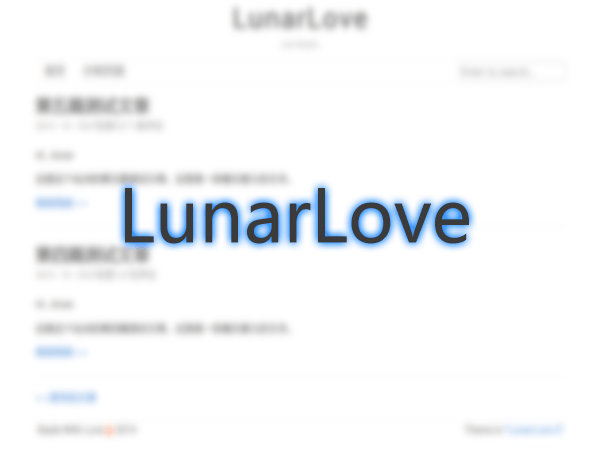
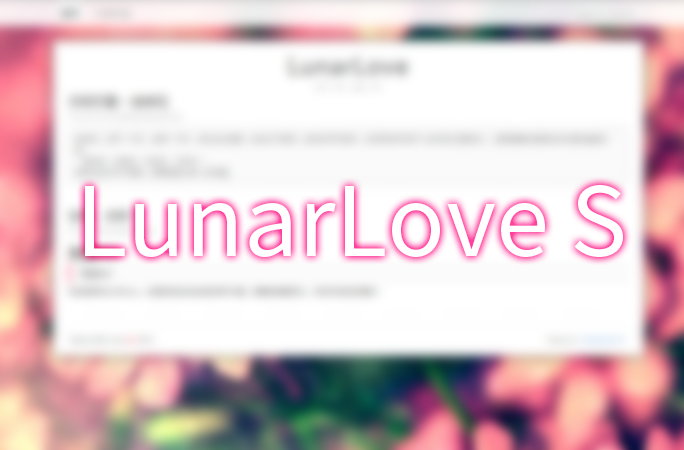
ReBuild-Milestone1
2.00 Rebuild M1

diff --git a/style.css b/style.css
@@ -106,7 +106,8 @@ a img {
     padding-bottom: 10px;
     padding-right: 30px;
     box-shadow: 0px 0px 30px #5c5c5c;
-    width:1200px;
+    max-width:1100px;
+    min-width: 900px;
     margin:0 auto;
     margin-top:30px;
     margin-bottom:30px;
@@ -153,7 +154,6 @@ p {
 li > ul,
 li > ol {
 	margin-bottom: 0;
-	margin-left: 2em;
 }
 dt {
 	font-weight: bold;
@@ -232,7 +232,7 @@ select,
 textarea {
 	font-size: 100%; /* Corrects font size not being inherited in all browsers */
 	margin: 0; /* Addresses margins set differently in IE6/7, F3/4, S5, Chrome */
-	vertical-align: baseline; /* Improves appearance and consistency in all browsers */
+	vertical-align: middle; /* Improves appearance and consistency in all browsers */
 	*vertical-align: middle; /* Improves appearance and consistency in all browsers */
 }
 button,
@@ -446,7 +446,8 @@ a:active {
 .nav-con {
     margin-left: auto;
     margin-right: auto;
-    width: 1260px;
+    max-width: 1160px;
+    min-width: 860px;
     height: 50px;
 }
 /* =Content
@@ -547,8 +548,8 @@ object {
 ----------------------------------------------- */
 
 .site-main [class*="navigation"] {
+    overflow: hidden;
 	margin: 0 0 1.5em;
-	overflow: hidden;
 }
 [class*="navigation"] .nav-previous {
 	float: left;
@@ -623,7 +624,6 @@ object {
 }
 .site-description {
     text-align:center;
-    font-style:italic;
     font-size:12px;
     color:#B8B8B8;
 }
@@ -642,7 +642,7 @@ object {
     -webkit-transition: background 200ms ease-in-out;
 }
 .main-navigation a {
-    color:#333333;
+    color:#949494;
     padding-left:5px;
     padding-right:5px;
 }
@@ -652,22 +652,27 @@ object {
 .menu-search {
     float:right;
     background-color: rgba(255,255,255,0.5);
-    border:1px solid #CCCCC !important;
+    border:1px solid #E0E0E0 !important;
     width: 130px;
-    height:24x;
+    /*height:24px;*/
     margin-top:10px;
-    transition: width 0.3s ease-in;
+    transition: width 0.3s ease-in,background 0.3s ease-in;
 }
 .menu-search:hover {
+    background-color: rgba(255,255,255,0.8);
     width: 185px;
 }
 .menu-search:focus {
     width: 185px;
 }
+.current_page_item a {
+    background-color: #FFFFFF;
+    color: #000000 !important;
+}
 /* =Main Artical
 ----------------------------------------------- */
 .entry-title {
-    font-size:28px;
+    font-size:24px;
 }
 .entry-title a {
     color:#505050;
@@ -681,20 +686,35 @@ object {
     font-size:14px;
 }
 .entry-header span a {
-    color:#B1B1B1;
+    color:#BFBFBF;
 }
 .comments-link a {
-    color:#B1B1B1;
+    color:#BFBFBF;
 }
 .entry-content p,.page-content p {
+    font-size: 15px;
     color:#404040;
 }
 .entry-content {
     border-bottom:1px dashed #EEE;
     padding-bottom:20px;
 }
+.entry-content h1 {
+    font-size: 28px;
+}
+.entry-content h2 {
+    font-size: 18px;
+    background-color: #FBFBFB;
+    padding:10px 20px 9px 20px;
+    line-height: 18px;
+    border-left: 3px solid #FF3366;
+    border-bottom: 1px solid #EBEBEB;
+    border-top: 1px solid #EBEBEB;
+    border-right: 1px solid #EBEBEB;
+}
 .entry-meta span {
     color:#B1B1B1;
+    font-size: 14px;
 }
 .page-title {
     font-size:28px;
@@ -741,12 +761,13 @@ blockquote p {
     color:#FF3366 !important;
 }
 .site-info {
+    margin-top: 15px;
     font-size: 14px;
 }
 /* =Comment
 ----------------------------------------------- */
-.comments-title {
-    font-size:20px;
+.comments-area {
+    font-size: 14px;
 }
 .comment-list {
     margin-top:20px;
@@ -760,18 +781,14 @@ blockquote p {
     padding-top:15px;
     padding-left:15px;
     padding-right:10px;
-    padding-bottom:1px;
 }
 .comment-content {
-    margin-top:10px;
+    word-break: break-all;
     display:flex;
 }
 .comment-time {
     font-size:14px;
     color:#404040;
-}
-.comment-metadata edit-link {
-    font-size:14px;
 }
 .avatar {
     border:1px solid #CCCCCC;
@@ -780,8 +797,8 @@ blockquote p {
     display:inline-block;
 }
 .comment-reply-title {
+    font-size: 18px;
     color:#000000;
-    font-size:20px;
     margin-top:30px;
 }
 .comment-form input{
@@ -829,9 +846,20 @@ input[type=text]:focus,textarea:focus {
 
 .action {
     float:right;
+    margin-top: -15px;
+    margin-bottom: 5px;
     display:inline-flex;
 }
-.parent {
+.depth-1 {
     margin-top: 10px;
     border-top: 1px dotted #D9D9D9;
+}
+.depth-2 {
+    margin-left: 28px;
+}
+.depth-3 {
+    margin-left: 28px;
+}
+.comments-title {
+    font-size: 16px;
 }

diff --git a/comments.php b/comments.php
@@ -33,9 +33,8 @@ if ( post_password_required() )
 
 		<?php if ( get_comment_pages_count() > 1 && get_option( 'page_comments' ) ) : // are there comments to navigate through ?>
 		<nav id="comment-nav-above" class="comment-navigation" role="navigation">
-			<h1 class="screen-reader-text"><?php _e( 'Comment navigation', 'lunarlove' ); ?></h1>
-			<div class="nav-previous"><?php previous_comments_link( __( '&larr; Older Comments', 'lunarlove' ) ); ?></div>
-			<div class="nav-next"><?php next_comments_link( __( 'Newer Comments &rarr;', 'lunarlove' ) ); ?></div>
+			<div class="nav-previous"><?php previous_comments_link( __( '&larr; 之前的评论', 'lunarlove' ) ); ?></div>
+			<div class="nav-next"><?php next_comments_link( __( '之后的评论 &rarr;', 'lunarlove' ) ); ?></div>
 		</nav><!-- #comment-nav-above -->
 		<?php endif; // check for comment navigation ?>
 
@@ -53,9 +52,8 @@ if ( post_password_required() )
 
 		<?php if ( get_comment_pages_count() > 1 && get_option( 'page_comments' ) ) : // are there comments to navigate through ?>
 		<nav id="comment-nav-below" class="comment-navigation" role="navigation">
-			<h1 class="screen-reader-text"><?php _e( 'Comment navigation', 'lunarlove' ); ?></h1>
-			<div class="nav-previous"><?php previous_comments_link( __( '&larr; Older Comments', 'lunarlove' ) ); ?></div>
-			<div class="nav-next"><?php next_comments_link( __( 'Newer Comments &rarr;', 'lunarlove' ) ); ?></div>
+			<div class="nav-previous"><?php previous_comments_link( __( '&larr; 之前的评论', 'lunarlove' ) ); ?></div>
+			<div class="nav-next"><?php next_comments_link( __( '之后的评论 &rarr;', 'lunarlove' ) ); ?></div>
 		</nav><!-- #comment-nav-below -->
 		<?php endif; // check for comment navigation ?>
 

diff --git a/inc/template-tags.php b/inc/template-tags.php
@@ -41,11 +41,11 @@ function lunarlove_content_nav( $nav_id ) {
 	<?php elseif ( $wp_query->max_num_pages > 1 && ( is_home() || is_archive() || is_search() ) ) : // navigation links for home, archive, and search pages ?>
 
 		<?php if ( get_next_posts_link() ) : ?>
-		<div class="nav-previous"><?php next_posts_link( __( '<span class="meta-nav">&lt;&nbsp;&lt;</span> Older posts', 'lunarlove' ) ); ?></div>
+		<div class="nav-previous"><?php next_posts_link( __( '<span class="meta-nav">&lt;&nbsp;&lt;</span> 之前的文章', 'lunarlove' ) ); ?></div>
 		<?php endif; ?>
 
 		<?php if ( get_previous_posts_link() ) : ?>
-		<div class="nav-next"><?php previous_posts_link( __( 'Newer posts <span class="meta-nav">&gt;&nbsp;&gt;</span>', 'lunarlove' ) ); ?></div>
+		<div class="nav-next"><?php previous_posts_link( __( '之后的文章 <span class="meta-nav">&gt;&nbsp;&gt;</span>', 'lunarlove' ) ); ?></div>
 		<?php endif; ?>
 
 	<?php endif; ?>
@@ -77,7 +77,7 @@ function lunarlove_comment( $comment, $args, $depth ) {
 		<article id="div-comment-<?php comment_ID(); ?>" class="comment-body clear">
 			<footer class="comment-meta">
 				<div class="comment-author vcard">
-					<?php if ( 0 != $args['avatar_size'] ) echo get_avatar( $comment, 70 ); ?>
+					<?php if ( 0 != $args['avatar_size'] ) echo get_avatar( $comment, 48 ); ?>
 					
 				</div><!-- .comment-author -->
 

diff --git a/no-results.php b/no-results.php
@@ -10,22 +10,22 @@
 
 <section class="no-results not-found">
 	<header class="page-header">
-		<h1 class="page-title"><?php _e( 'Nothing Found', 'lunarlove' ); ?></h1>
+		<h1 class="page-title"><?php _e( '找不到任何内容', 'lunarlove' ); ?></h1>
 	</header><!-- .page-header -->
 
 	<div class="page-content">
 		<?php if ( is_home() && current_user_can( 'publish_posts' ) ) : ?>
 
-			<p><?php printf( __( 'Ready to publish your first post? <a href="%1$s">Get started here</a>.', 'lunarlove' ), esc_url( admin_url( 'post-new.php' ) ) ); ?></p>
+			<p><?php printf( __( '准备好发布第一篇文章了吗? <a href="%1$s">点此以开始</a>.', 'lunarlove' ), esc_url( admin_url( 'post-new.php' ) ) ); ?></p>
 
 		<?php elseif ( is_search() ) : ?>
 
-			<p><?php _e( 'Sorry, but nothing matched your search terms. Please try again with some different keywords.', 'lunarlove' ); ?></p>
+			<p><?php _e( '对不起，我们没能找到任何与您的搜索关键词相关的东西，请尝试更换关键词.', 'lunarlove' ); ?></p>
 			<?php get_search_form(); ?>
 
 		<?php else : ?>
 
-			<p><?php _e( 'It seems we can&rsquo;t find what you&rsquo;re looking for. Perhaps searching can help.', 'lunarlove' ); ?></p>
+			<p><?php _e( '看起来我们找不到你想要的东西，试试搜索吧.', 'lunarlove' ); ?></p>
 			<?php get_search_form(); ?>
 
 		<?php endif; ?>

diff --git a/archive.php b/archive.php
@@ -28,7 +28,7 @@ get_header(); ?>
 							 * what author we're dealing with (if that is the case).
 							*/
 							the_post();
-							printf( __( 'Author: %s', 'lunarlove' ), '<span class="vcard">' . get_the_author() . '</span>' );
+							printf( __( '作者: %s', 'lunarlove' ), '<span class="vcard">' . get_the_author() . '</span>' );
 							/* Since we called the_post() above, we need to
 							 * rewind the loop back to the beginning that way
 							 * we can run the loop properly, in full.
@@ -36,13 +36,13 @@ get_header(); ?>
 							rewind_posts();
 
 						elseif ( is_day() ) :
-							printf( __( 'Day: %s', 'lunarlove' ), '<span>' . get_the_date() . '</span>' );
+							printf( __( '日: %s', 'lunarlove' ), '<span>' . get_the_date() . '</span>' );
 
 						elseif ( is_month() ) :
-							printf( __( 'Month: %s', 'lunarlove' ), '<span>' . get_the_date( 'F Y' ) . '</span>' );
+							printf( __( '月: %s', 'lunarlove' ), '<span>' . get_the_date( 'F Y' ) . '</span>' );
 
 						elseif ( is_year() ) :
-							printf( __( 'Year: %s', 'lunarlove' ), '<span>' . get_the_date( 'Y' ) . '</span>' );
+							printf( __( '年: %s', 'lunarlove' ), '<span>' . get_the_date( 'Y' ) . '</span>' );
 
 						elseif ( is_tax( 'post_format', 'post-format-aside' ) ) :
 							_e( 'Asides', 'lunarlove' );

diff --git a/searchform.php b/searchform.php
@@ -7,8 +7,8 @@
 ?>
 <form role="search" method="get" class="search-form" action="<?php echo esc_url( home_url( '/' ) ); ?>">
 	<label>
-		<span class="screen-reader-text"><?php _ex( 'Search for:', 'label', 'lunarlove' ); ?></span>
-		<input type="search" class="search-field" placeholder="<?php echo esc_attr_x( 'Search &hellip;', 'placeholder', 'lunarlove' ); ?>" value="<?php echo esc_attr( get_search_query() ); ?>" name="s">
+		<span class="screen-reader-text"><?php _ex( '搜索内容:', 'label', 'lunarlove' ); ?></span>
+		<input type="search" class="search-field" placeholder="<?php echo esc_attr_x( 'Type to search...', 'placeholder', 'lunarlove' ); ?>" value="<?php echo esc_attr( get_search_query() ); ?>" name="s">
 	</label>
-	<input type="submit" class="search-submit" value="<?php echo esc_attr_x( 'Search', 'submit button', 'lunarlove' ); ?>">
+	<input type="submit" class="search-submit" value="<?php echo esc_attr_x( '搜索', 'submit button', 'lunarlove' ); ?>">
 </form>

diff --git a/404.php b/404.php
@@ -12,11 +12,11 @@ get_header(); ?>
 
 			<section class="error-404 not-found">
 				<header class="page-header">
-					<h1 class="page-title"><?php _e( 'Oops! That page can&rsquo;t be found.', 'lunarlove' ); ?></h1>
+					<h1 class="page-title"><?php _e( 'Ooops!', 'lunarlove' ); ?></h1>
 				</header><!-- .page-header -->
 
 				<div class="page-content">
-					<p><?php _e( 'It looks like nothing was found at this location. Maybe try one of the links below or a search?', 'lunarlove' ); ?></p>
+					<p><?php _e( '您试图查看的页面似乎并不存在，试试搜索?', 'lunarlove' ); ?></p>
 
 					<?php get_search_form(); ?>
 

diff --git a/search.php b/search.php
@@ -13,7 +13,7 @@ get_header(); ?>
 		<?php if ( have_posts() ) : ?>
 
 			<header class="page-header">
-				<h1 class="page-title"><?php printf( __( 'Search Results for: %s', 'lunarlove' ), '<span>' . get_search_query() . '</span>' ); ?></h1>
+				<h1 class="page-title"><?php printf( __( '%s 的搜索结果', 'lunarlove' ), '<span>' . get_search_query() . '</span>' ); ?></h1>
 			</header><!-- .page-header -->
 
 			<?php /* Start the Loop */ ?>

diff --git a/content.php b/content.php
@@ -32,7 +32,7 @@
 	</div><!-- .entry-summary -->
 	<?php else : ?>
 	<div class="entry-content">
-		<?php the_content( __( 'Continue reading <span class="meta-nav">&gt;&nbsp;&gt;</span>', 'lunarlove' ) ); ?>
+		<?php the_content( __( '继续阅读 <span class="meta-nav">&gt;&nbsp;&gt;</span>', 'lunarlove' ) ); ?>
 		<?php
 			wp_link_pages( array(
 				'before' => '<div class="page-links">' . __( 'Pages:', 'lunarlove' ),

diff --git a/ReadMe.md b/ReadMe.md
@@ -1,6 +1,6 @@
 ##**LunarLove S**##
 
-版本:`2.00R` ; 维护者: [`Aivier`](http://aiyou.im) ; 最后升级: `2015/1/12  18:29:54`
+版本:`2.00R` ; 维护者: [`Aivier`](http://aiyou.im) ; 最后升级: `2015/1/13  14:45:11`
 
 ###简介###
 这是一个基于 **Underscores** 的 **WordPress** 主题。它是一个 `极简` `优雅` `适合文字阅读` 的主题，并不适合追求华丽和多功能的用户。且暂不支持侧栏。
